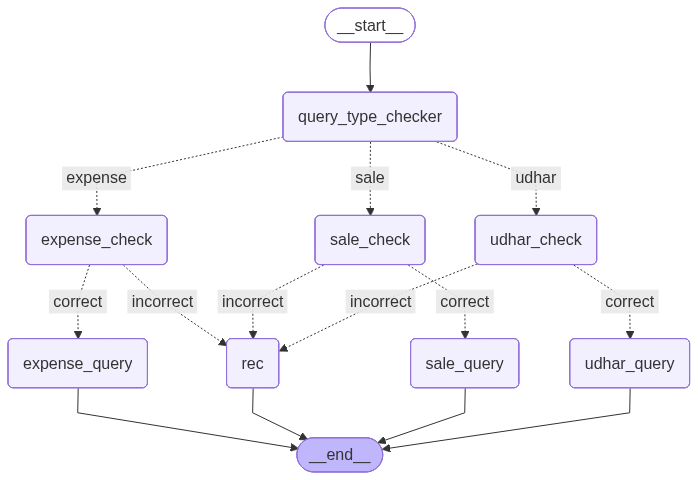
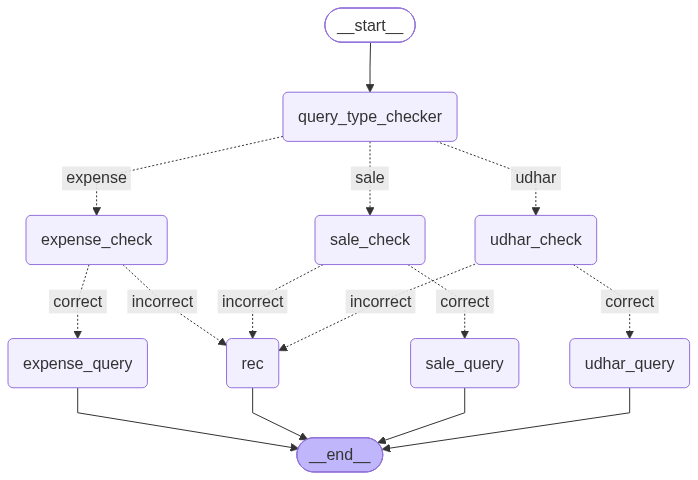
added langsmith , changed the config , integrated audio chunking

diff --git a/agents/recommender.py b/agents/recommender.py
@@ -32,35 +32,35 @@ async def recommender(state: State):
     print(lang)
     # 5. System prompt with all variables properly injected
     system_prompt = f"""You are a retail transaction assistant embedded in a POS system.
-Your job is to intelligently infer missing transaction details using structured catalog data.
+            Your job is to intelligently infer missing transaction details using structured catalog data.
 
-Vendor: {vendor_name}
+            Vendor: {vendor_name}
 
-Missing Fields: {missing_fields_str}
+            Missing Fields: {missing_fields_str}
 
-Item Catalog:
-{item_catalog_str}
+            Item Catalog:
+            {item_catalog_str}
 
-Partial Transaction Context: '{msg_content}'
+            Partial Transaction Context: '{msg_content}'
 
-Your task:
-- Analyze the catalog and context above
-- Suggest 1–3 highly relevant completions ONLY for the missing fields listed
-- Rules:
-  • Only use items from the catalog above
-  • Infer price from sellingPrice if the amount field is missing
-  • Suggest practical quantities (1, 2, 3, 5, etc.) if quantity is missing
-  • Do not invent items not present in the catalog
+            Your task:
+            - Analyze the catalog and context above
+            - Suggest 1–3 highly relevant completions ONLY for the missing fields listed
+            - Rules:
+            • Only use items from the catalog above
+            • Infer price from sellingPrice if the amount field is missing
+            • Suggest practical quantities (1, 2, 3, 5, etc.) if quantity is missing
+            • Do not invent items not present in the catalog
 
-Output Format:
-- A JSON list of casual, conversational confirmation strings
-- Each string should sound like a friendly cashier asking "did you mean...?"
-- Fill in ALL missing fields naturally within the sentence
-- Use "rs" for currency, keep it short and informal
-- No explanations, no markdown, no extra formatting
-- Example: ["did you mean you sold milk 2 quantities for 45 rs?", "did you mean you sold 1 pack of bread for 30 rs?"]
-give ans in whatever lang user wants i.e{lang}
-Focus on accuracy, realism, and contextual relevance."""
+            Output Format:
+            - A JSON list of casual, conversational confirmation strings
+            - Each string should sound like a friendly cashier asking "did you mean...?"
+            - Fill in ALL missing fields naturally within the sentence
+            - Use "rs" for currency, keep it short and informal
+            - No explanations, no markdown, no extra formatting
+            - Example: ["did you mean you sold milk 2 quantities for 45 rs?", "did you mean you sold 1 pack of bread for 30 rs?"]
+            give ans in whatever lang user wants i.e{lang}
+            Focus on accuracy, realism, and contextual relevance."""
 
     # 6. Construct message payload — system + human turn
     messages_to_pass = [

diff --git a/agents/query_type_checker.py b/agents/query_type_checker.py
@@ -8,29 +8,43 @@ from langchain_core.messages import AIMessage
 def query_type_checker(state: State):
     msg_content = state['messages'][0].content
 
-    prompt = f'''You are a transaction classification agent for a small business POS system.
-Your ONLY job is to classify the user's message into exactly one of three transaction types.
+    prompt = f'''Task
 
-Transaction Types:
-- sale     → The vendor SOLD something to a customer (keywords: sold, selling, sale, becha, diya)
-- expense  → The vendor SPENT money on something (keywords: spent, paid, bought, kharcha, expense)
-- udhar    → A credit/debt transaction, either given or received (keywords: udhar, credit, borrowed, lent, udhaar)
+                    Classify the user's business transaction into exactly one label.
 
-Rules:
-- Classify based on intent, not just keywords
-- If ambiguous, pick the closest match
-- Never return anything other than: sale, expense, or udhar
+                    Labels
 
-Examples:
-- "I sold 2 pizzas for 80 rs"           → sale
-- "I spent 150 on an auto"              → expense
-- "Paid shop rent 5000"                 → expense
-- "Rahul took 500 on udhar"             → udhar
-- "I gave 200 to Suresh on credit"      → udhar
-- "Becha 3 samose 30 mein"              → sale
+                    sale
+                    The business receives money by providing goods or services.
 
-User Message: "{msg_content}"
-'''
+                    expense
+                    The business spends money to acquire goods, services, inventory, or operating costs.
+
+                    udhar
+                    The transaction creates, updates, settles, or refers to a credit/debt relationship where payment is deferred.
+
+                    Rules
+
+                    - Interpret every message from the business owner's perspective.
+                    - Focus on transaction intent, not keywords.
+                    - Messages may be in English, Hindi, Marathi, or mixed languages.
+                    - Ignore spelling mistakes and informal wording.
+                    - If a sale is made on credit, classify as "udhar".
+                    - Return exactly one lowercase label:
+                    sale
+                    expense
+                    udhar
+
+                    Examples:
+                    - "I sold 2 pizzas for 80 rs"           → sale
+                    - "I spent 150 on an auto"              → expense
+                    - "Paid shop rent 5000"                 → expense
+                    - "Rahul took 500 on udhar"             → udhar
+                    - "I gave 200 to Suresh on credit"      → udhar
+                    - "Becha 3 samose 30 mein"              → sale
+
+                    User Message: "{msg_content}"
+                    '''
 
     messages_to_pass = [
         ("system", prompt),

diff --git a/api.py b/api.py
@@ -13,7 +13,7 @@ from agents.text_db_agent import main
 from agents.waste_agent import build_graph as build_waste_graph
 
 
-app = FastAPI(title="FinWell Agent API", version="1.0.0")
+app = FastAPI(title="VoiceTrace  Agent API", version="1.0.0")
 
 origins = ["http://localhost:3000", "http://localhost:5173", "http://127.0.0.1:5173"]
 app.add_middleware(
@@ -43,24 +43,31 @@ async def speech_input(
         timestamp = str(parsed["timestamp"])
         print(f"Processing audio for User: {user_id}")
 
-        audio_bytes = await audio.read()
+        
         unique_file_id = str(uuid.uuid4())
         temp_path = f"temp_input_audio_{unique_file_id}.m4a"
 
         with open(temp_path, "wb") as f:
-            f.write(audio_bytes)
+            while chunk := await audio.read(1024 * 1024):  # 1MB chunks
+                f.write(chunk)
 
         async def generate_response():
             try:
                 yield f"data: {json.dumps({'status': 'Analyzing audio...'})}\n\n"
 
-                task_base = asyncio.to_thread(speech_to_text_base, temp_path, lang)
+                # 1. Fire BOTH threads immediately. They are now both running concurrently.
+                task_base = asyncio.create_task(asyncio.to_thread(speech_to_text_base, temp_path, lang))
+                task_turbo = asyncio.create_task(asyncio.to_thread(speech_to_text_turbo, temp_path, lang))
+
+                # 2. Wait for the Base model to finish first
                 fast_text = await task_base
                 yield f"data: {json.dumps({'status': 'fast_text', 'text': fast_text})}\n\n"
-
                 yield f"data: {json.dumps({'status': 'Refining text for accuracy...'})}\n\n"
 
-                task_turbo = asyncio.to_thread(speech_to_text_turbo, temp_path, lang)
+                # 3. Now wait for Turbo. 
+                # Because we started it at the exact same time as Base, it has ALREADY 
+                # been running this whole time. If Base took 2s and Turbo takes 5s, 
+                # this await will only pause for the remaining 3s!
                 accurate_text = await task_turbo
                 yield f"data: {json.dumps({'status': 'accurate_text_ready', 'text': accurate_text})}\n\n"
 

diff --git a/tools/sp_text.py b/tools/sp_text.py
@@ -13,9 +13,9 @@ sys.stdout.reconfigure(encoding="utf-8")
 warnings.filterwarnings("ignore", message="FP16 is not supported on CPU")
 
 
-# -------------------------------
-# 1⃣  Setup FFmpeg from imageio
-# -------------------------------
+
+#Setup FFmpeg from imageio
+
 ffmpeg_path = imageio_ffmpeg.get_ffmpeg_exe()
 
 # Force Whisper model downloads to D:
@@ -23,9 +23,9 @@ os.environ["WHISPER_CACHE_DIR"] = "D:/WhisperCache"
 os.makedirs(os.environ["WHISPER_CACHE_DIR"], exist_ok=True)
 
 
-# -------------------------------
-# 2⃣  Patch Whisper audio loader
-# -------------------------------
+
+#  Patch Whisper audio loader
+
 def load_audio(file: str, sr: int = 16000):
     """
     Load audio using FFmpeg from imageio_ffmpeg
@@ -50,9 +50,9 @@ import whisper.audio
 whisper.audio.load_audio = load_audio
 
 
-# -------------------------------
-# 3⃣  Load Whisper + Transcribe
-# -------------------------------
+
+#Load Whisper + Transcribe
+
 import whisper
 print("Loading Whisper Base model...")
 model_base = whisper.load_model("base")

diff --git a/agents/text_db_agent.py b/agents/text_db_agent.py
@@ -107,7 +107,20 @@ async def main(voice_text: str, vendor_id: str,num):
         num = random.randint(1000, 9999)
         print(num)
     # Use vendor_id as thread_id so each user has isolated memory
-    config = {'configurable': {'thread_id': num}}
+    config = {
+        "configurable": {
+            "thread_id": str(num)
+        },
+        "metadata": {
+            "vendor_id": vendor_id,
+            "conversation_id": num,
+            "application": "transaction-agent"
+        },
+        "tags": [
+            "production",
+            "transaction-classifier"
+        ]
+    }
     print(voice_text)
     async for event in graph.astream({
         'messages': voice_text,

diff --git a/schemas/transaction_type.py b/schemas/transaction_type.py
@@ -1,9 +1,6 @@
-from typing import Annotated , Literal , Optional
-from pydantic import BaseModel
-
-from typing import Literal, Optional, List
+from typing import Literal 
 from pydantic import BaseModel, Field
-from datetime import datetime, date
+
 
 class TransactionType(BaseModel):
     transaction_type: Literal[

diff --git a/llm.py b/llm.py
@@ -14,8 +14,7 @@ from langchain_openai import ChatOpenAI
 
 llm = ChatOpenAI(
     model="gpt-4.1-mini",   # BEST choice for your use case
-    temperature=0
+    temperature=1
 )
 
 print("LLM INITIALIZATION")
-print('LLM INITIALIZATION')

diff --git a/changes.md b/changes.md
@@ -1,3 +1,83 @@
+3. Add better tracing metadata
+
+Your current:
+
+config = {'configurable': {'thread_id': num}}
+
+is good for LangGraph memory.
+
+I would change it to:
+
+config = {
+    "configurable": {
+        "thread_id": str(num)
+    },
+    "metadata": {
+        "vendor_id": vendor_id,
+        "conversation_id": num,
+        "application": "transaction-agent"
+    },
+    "tags": [
+        "production",
+        "transaction-classifier"
+    ]
+}
+
+Now in LangSmith you can filter:
+
+vendor_id=test_vendor
+application=transaction-agent
+
+
+
+
+2. Why Concurrent Whisper Execution Is Better
+
+Previously, the Base and Turbo Whisper models ran sequentially:
+
+Base Model → Wait → Fast Text → Turbo Model → Wait → Accurate Text
+
+This means Turbo starts only after Base finishes, increasing total processing time.
+
+Example:
+
+Base:   █████ (2 sec)
+
+Turbo:        ███████████ (5 sec)
+
+Total = 7 sec
+
+With the new approach:
+
+task_base = asyncio.create_task(asyncio.to_thread(speech_to_text_base, temp_path, lang))
+task_turbo = asyncio.create_task(asyncio.to_thread(speech_to_text_turbo, temp_path, lang))
+
+both models start immediately:
+
+Base:   █████ (2 sec)
+
+Turbo:  ███████████ (5 sec)
+
+Now:
+
+Base result is sent as soon as it finishes.
+Turbo continues running in the background.
+Final accurate text arrives faster.
+
+Total processing time becomes:
+
+max(Base time, Turbo time)
+
+instead of:
+
+Base time + Turbo time
+
+This improves latency and user experience while keeping FastAPI responsive because Whisper inference runs in separate worker threads instead of blocking the async event loop.
+
+Note: If both models run on the same GPU, parallel execution may not always be faster due to competition for GPU resources, so benchmarking is recommended.
+
+
+
 1. Stream upload instead of loading entire audio into RAM (highest priority)
 
 Change this:

diff --git a/VOICETRACE_CODEBASE.md b/VOICETRACE_CODEBASE.md
@@ -703,7 +703,20 @@ async def main(voice_text: str, vendor_id: str,num):
         num = random.randint(1000, 9999)
         print(num)
     # Use vendor_id as thread_id so each user has isolated memory
-    config = {'configurable': {'thread_id': num}}
+        config = {
+        "configurable": {
+            "thread_id": str(num)
+        },
+        "metadata": {
+            "vendor_id": vendor_id,
+            "conversation_id": num,
+            "application": "transaction-agent"
+        },
+        "tags": [
+            "production",
+            "transaction-classifier"
+        ]
+    }
     print(voice_text)
     async for event in graph.astream({
         'messages': voice_text,
